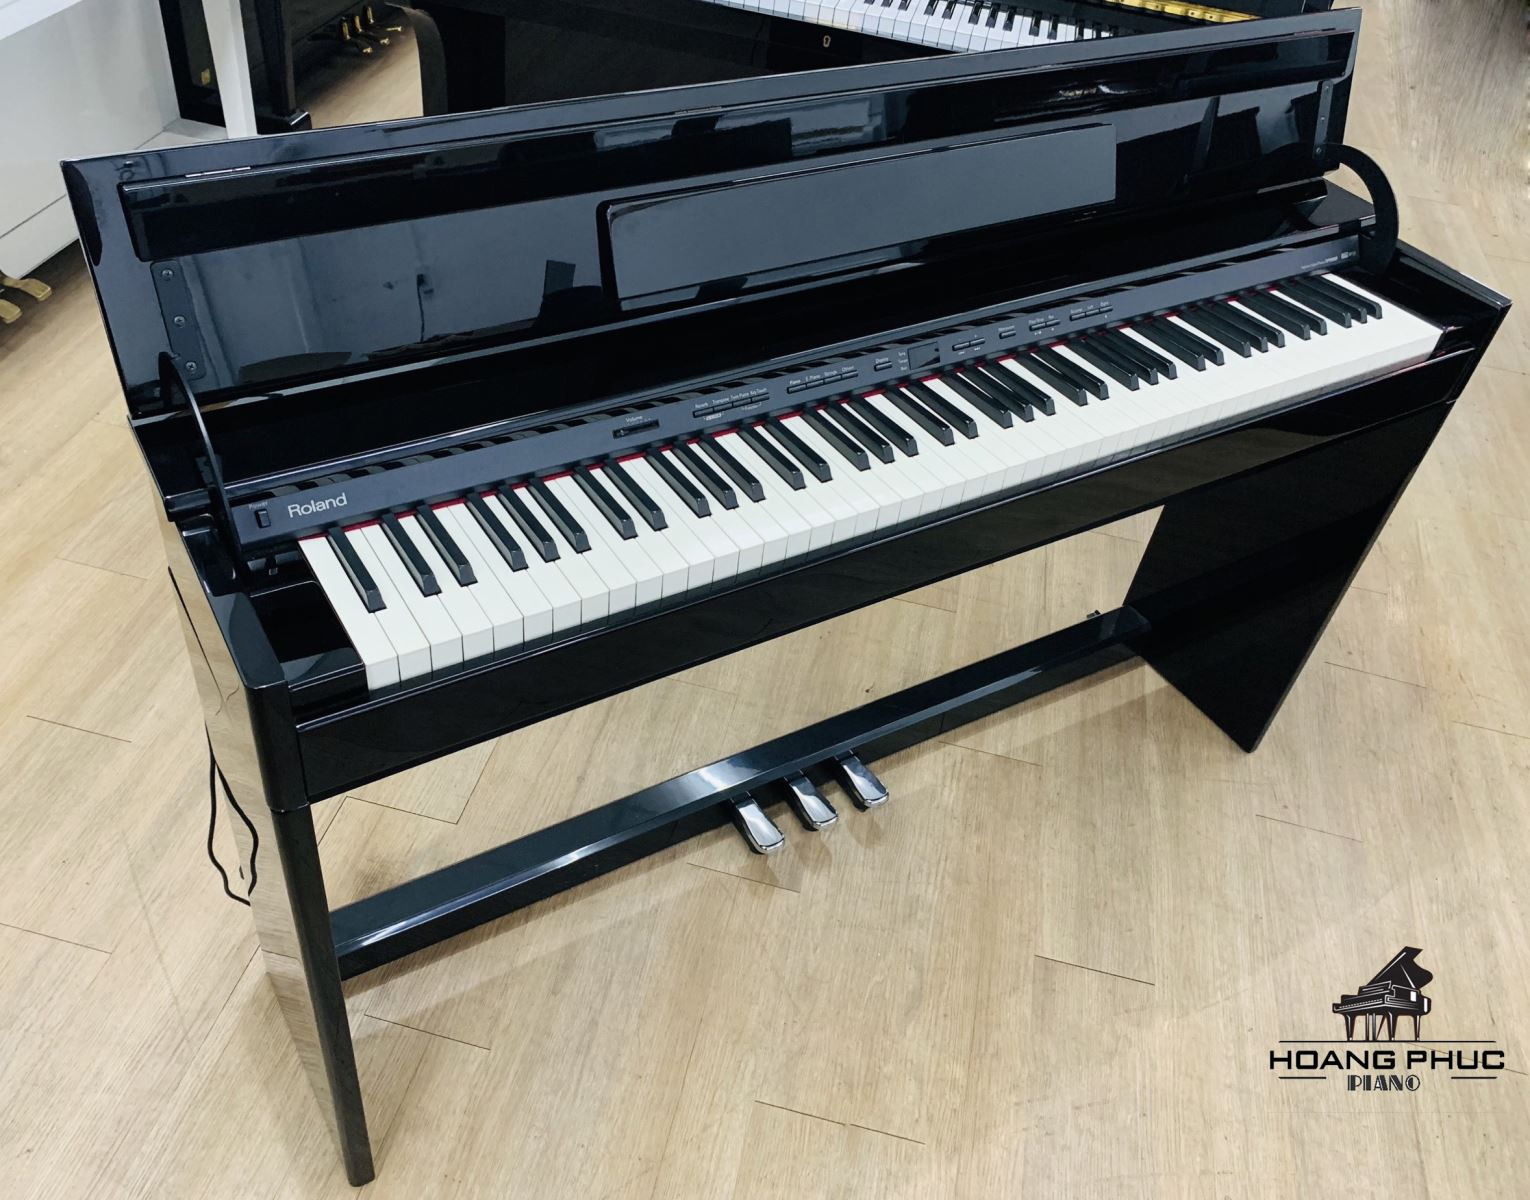
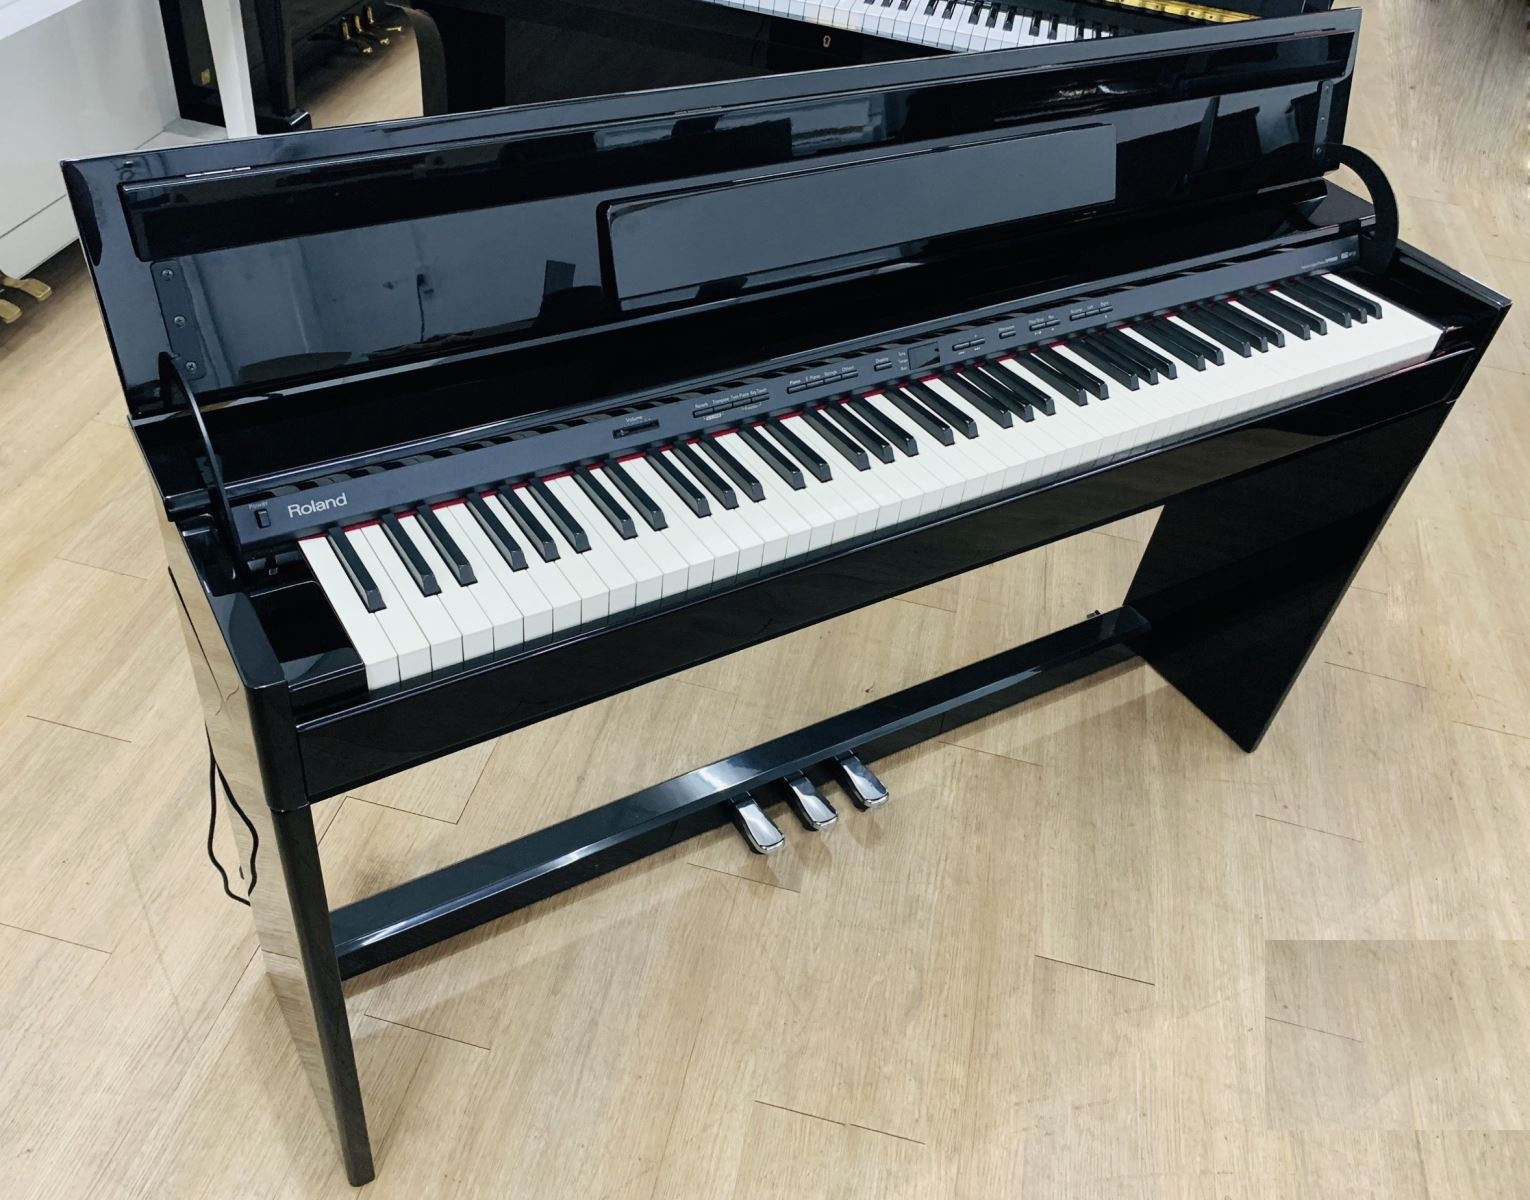
Ajouter la photo du Roland DP90 dans la carte de location (#53)
Retouche du fichier images/roland-dp90-location.jpg pour retirer un
logo de revendeur tiers présent sur la photo fournie, sans recadrer
le cadrage du piano. Intégration de la photo dans la carte "Location
de mon piano numérique" sur index.html et test2027.html.

Changed region(s): [[0.8294, 0.7708, 1.0, 0.9558], [0.983, 0.7708, 1.0, 0.8017]]

diff --git a/index.html b/index.html
@@ -1004,6 +1004,9 @@ document.addEventListener('DOMContentLoaded', function() {
             </p>
             <div style="max-width:600px;width:100%;margin:1.5rem auto 0.5rem auto;background:rgba(255,255,255,0.85);border:2px solid #b9944e;border-radius:1.2rem;padding:1.8rem 1.6rem;text-align:left;box-shadow:0 6px 18px rgba(24,35,63,0.08);box-sizing:border-box;">
                 <h3 style="font-family:'Great Vibes',cursive;font-size:1.9rem;color:#18233f;text-align:center;margin:0 0 1.1rem 0;font-weight:400;">Location de mon piano numérique</h3>
+                <div style="width:100%;max-width:340px;margin:0 auto 1.2rem auto;border-radius:0.75rem;overflow:hidden;box-shadow:0 4px 12px rgba(24,35,63,0.12);">
+                    <img src="images/roland-dp90-location.jpg" alt="Piano numérique Roland DP90 proposé à la location" style="width:100%;height:auto;display:block;">
+                </div>
                 <p style="font-size:1.05rem;line-height:1.6;color:#18233f;margin:0 0 0.9rem 0;font-family:'Inter',sans-serif;">
                     Je propose également la location de mon piano numérique <strong>Roland DP90</strong>, dans le cadre d'un contrat de 6 mois renouvelable, au tarif de <strong>40€/mois</strong>.
                 </p>

diff --git a/test2027.html b/test2027.html
@@ -1074,6 +1074,9 @@ document.addEventListener('DOMContentLoaded', function() {
             </p>
             <div style="max-width:600px;width:100%;margin:1.5rem auto 0.5rem auto;background:rgba(255,255,255,0.85);border:2px solid #b9944e;border-radius:1.2rem;padding:1.8rem 1.6rem;text-align:left;box-shadow:0 6px 18px rgba(24,35,63,0.08);box-sizing:border-box;">
                 <h3 style="font-family:'Great Vibes',cursive;font-size:1.9rem;color:#18233f;text-align:center;margin:0 0 1.1rem 0;font-weight:400;">Location de mon piano numérique</h3>
+                <div style="width:100%;max-width:340px;margin:0 auto 1.2rem auto;border-radius:0.75rem;overflow:hidden;box-shadow:0 4px 12px rgba(24,35,63,0.12);">
+                    <img src="images/roland-dp90-location.jpg" alt="Piano numérique Roland DP90 proposé à la location" style="width:100%;height:auto;display:block;">
+                </div>
                 <p style="font-size:1.05rem;line-height:1.6;color:#18233f;margin:0 0 0.9rem 0;font-family:'Inter',sans-serif;">
                     Je propose également la location de mon piano numérique <strong>Roland DP90</strong>, dans le cadre d'un contrat de 6 mois renouvelable, au tarif de <strong>40€/mois</strong>.
                 </p>
